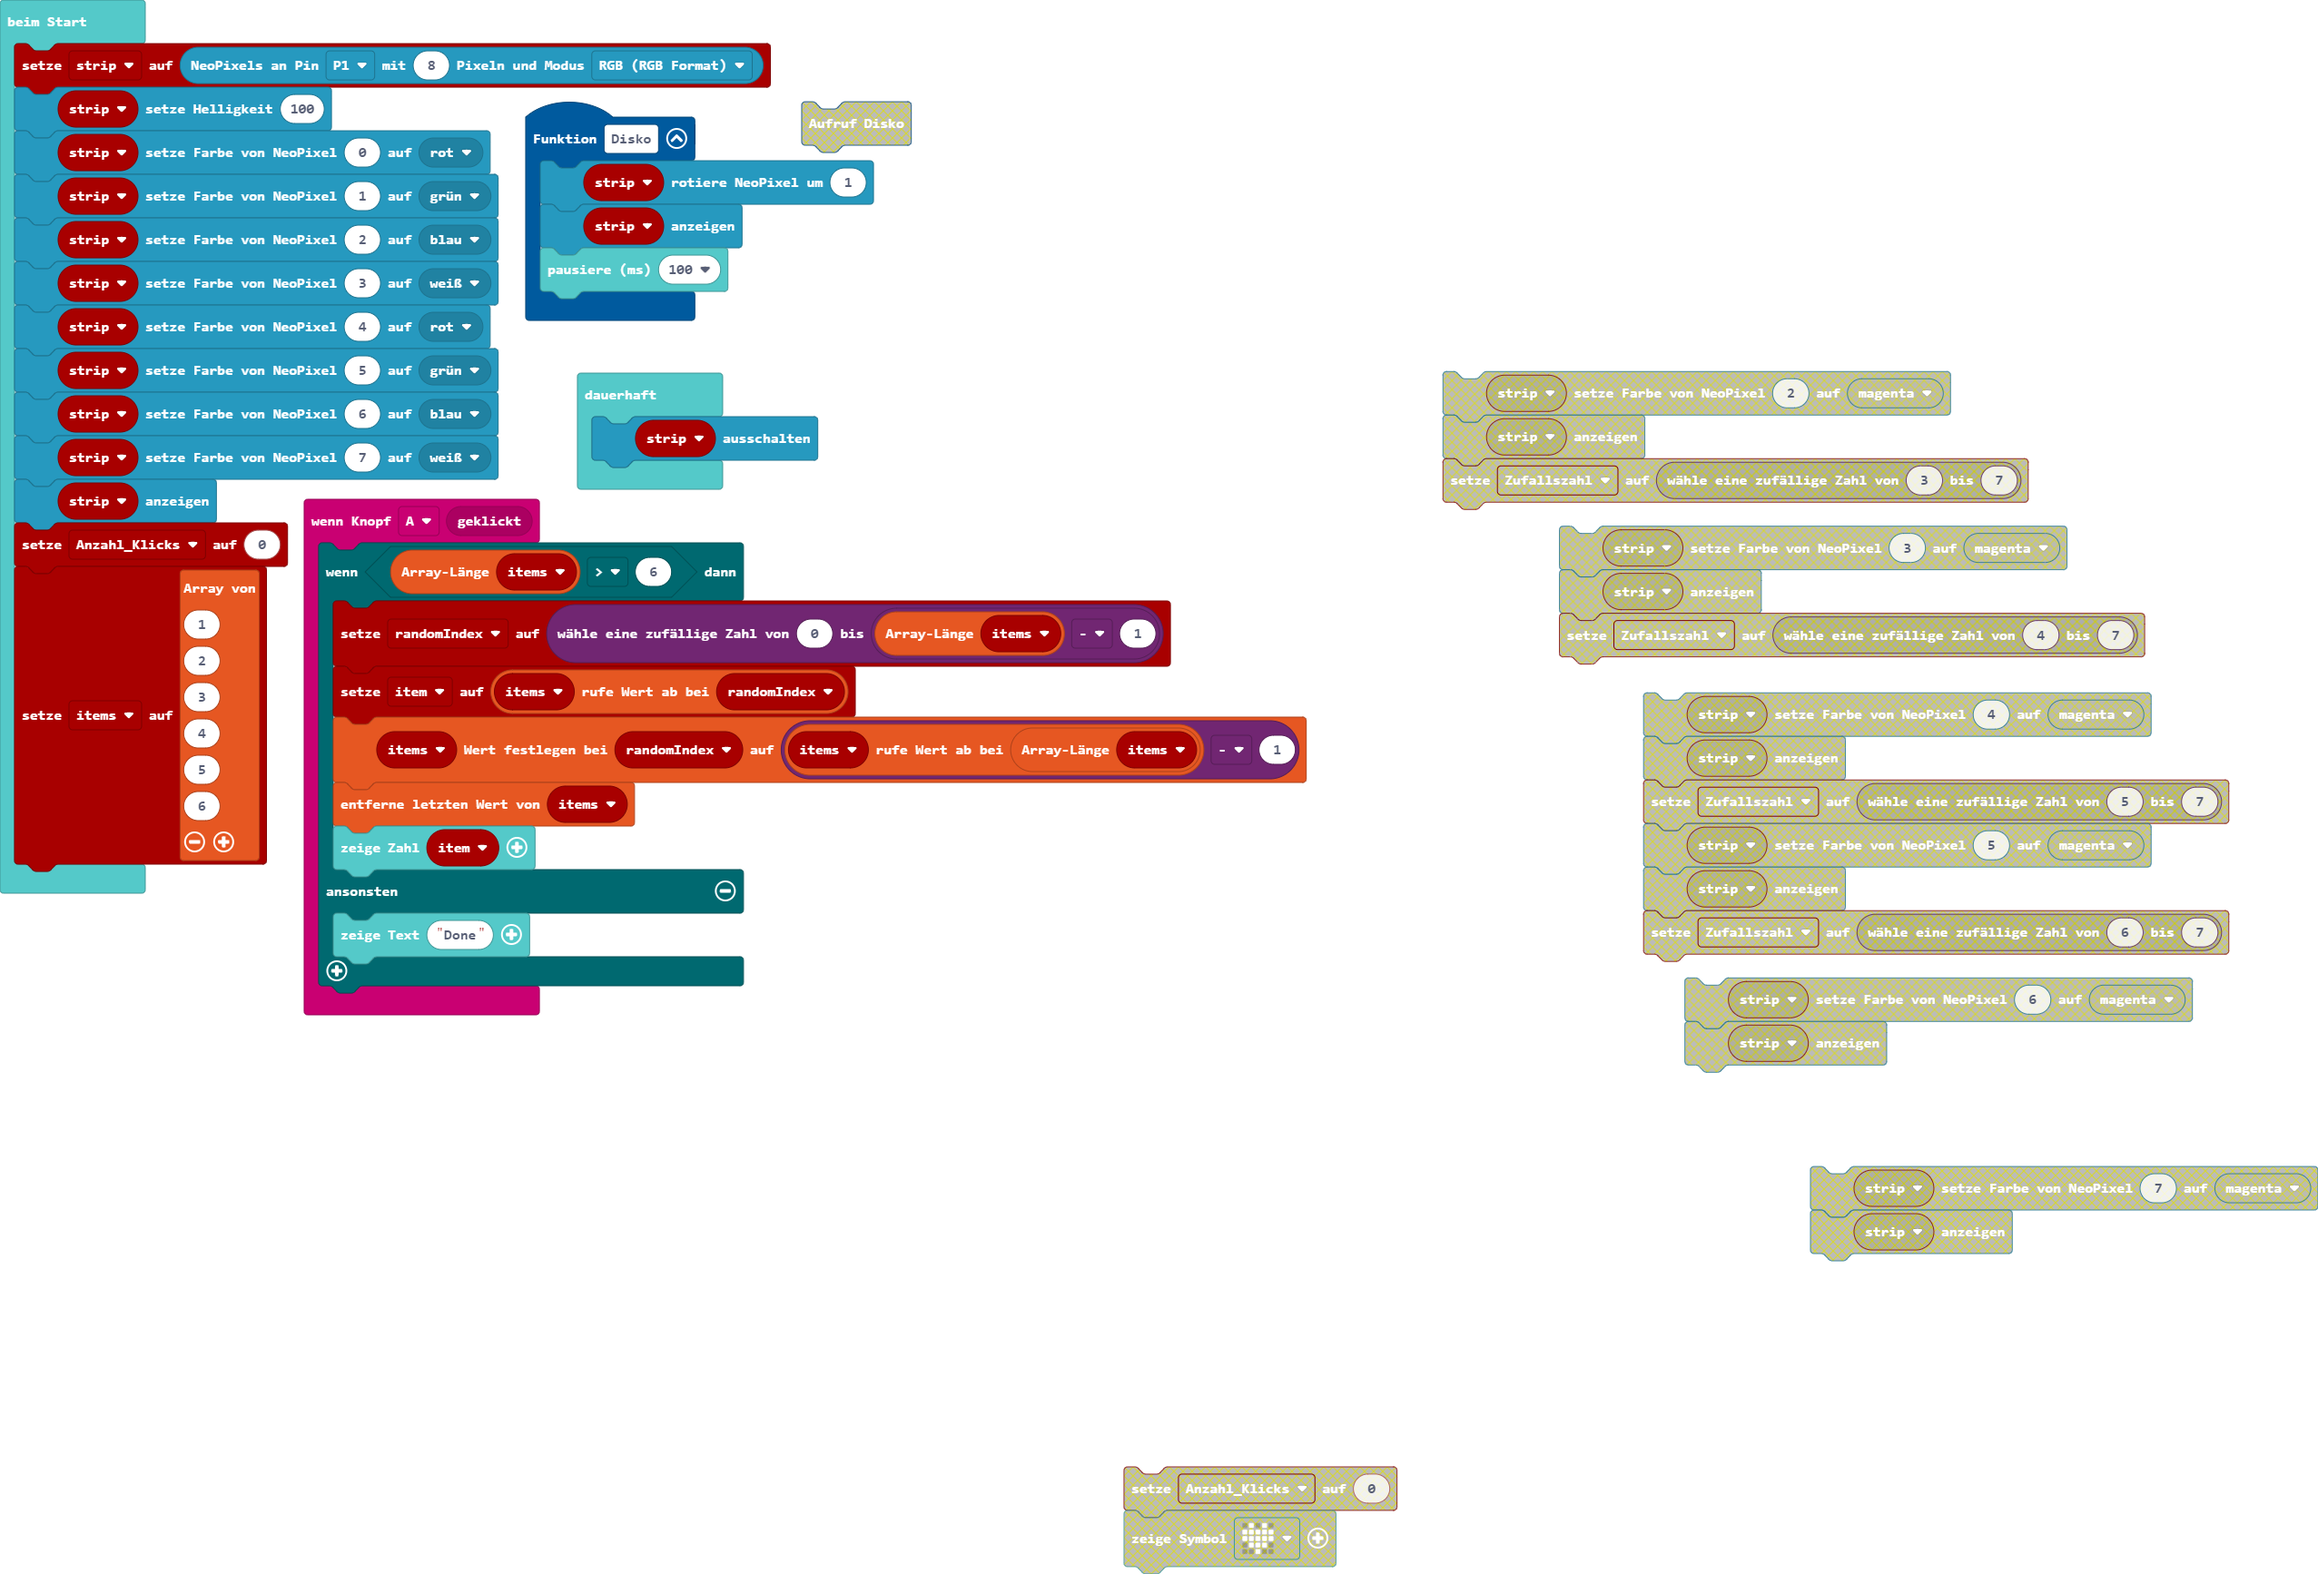
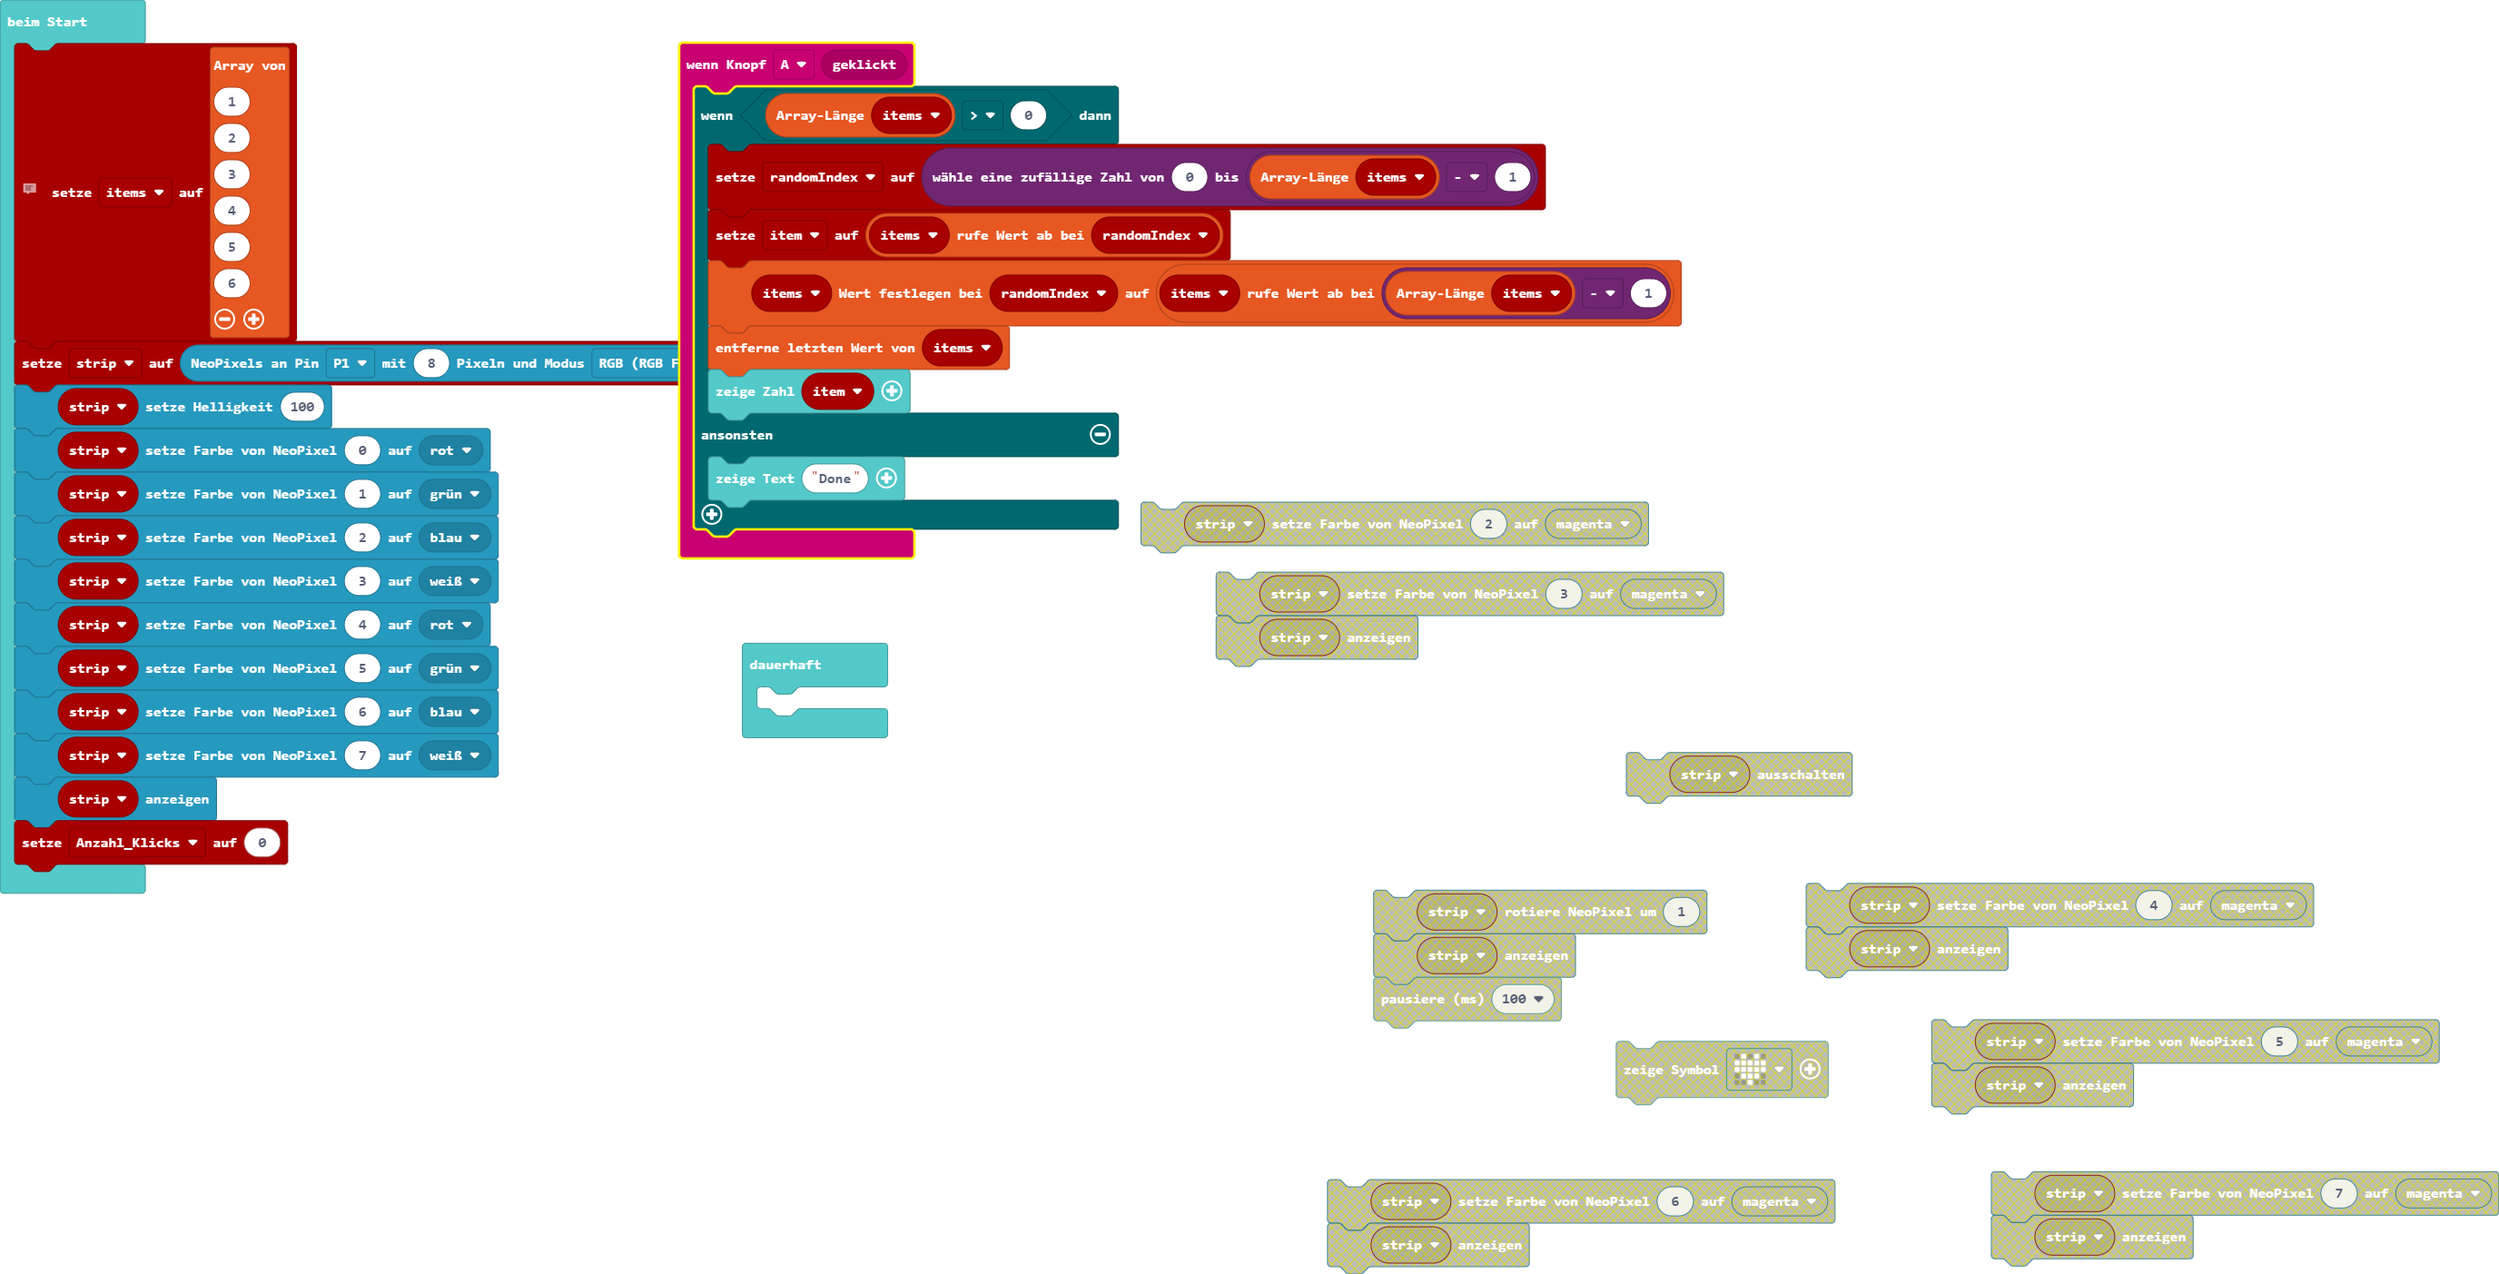
Aktualisiere main.blocks, main.ts

diff --git a/main.ts b/main.ts
@@ -1,24 +1,27 @@
 input.onButtonEvent(Button.A, input.buttonEventClick(), function () {
-    if (items.length > 6) {
+    if (items.length > 0) {
         randomIndex = randint(0, items.length - 1)
         item = items[randomIndex]
-        items[randomIndex] = items[items.length] - 1
+        items[randomIndex] = items[items.length - 1]
         items.pop()
         basic.showNumber(item)
     } else {
         basic.showString("Done")
     }
 })
-function Disko () {
-    strip.rotate(1)
-    strip.show()
-    basic.pause(100)
-}
-let item: Arr = null
+let item = 0
 let randomIndex = 0
 let items: number[] = []
-let strip: neopixel.Strip = null
-strip = neopixel.create(DigitalPin.P1, 8, NeoPixelMode.RGB_RGB)
+// Liste mit Zahlen
+items = [
+1,
+2,
+3,
+4,
+5,
+6
+]
+let strip = neopixel.create(DigitalPin.P1, 8, NeoPixelMode.RGB_RGB)
 strip.setBrightness(100)
 strip.setPixelColor(0, neopixel.colors(NeoPixelColors.Red))
 strip.setPixelColor(1, neopixel.colors(NeoPixelColors.Green))
@@ -30,14 +33,6 @@ strip.setPixelColor(6, neopixel.colors(NeoPixelColors.Blue))
 strip.setPixelColor(7, neopixel.colors(NeoPixelColors.White))
 strip.show()
 let Anzahl_Klicks = 0
-items = [
-1,
-2,
-3,
-4,
-5,
-6
-]
 basic.forever(function () {
-    strip.clear()
+	
 })
